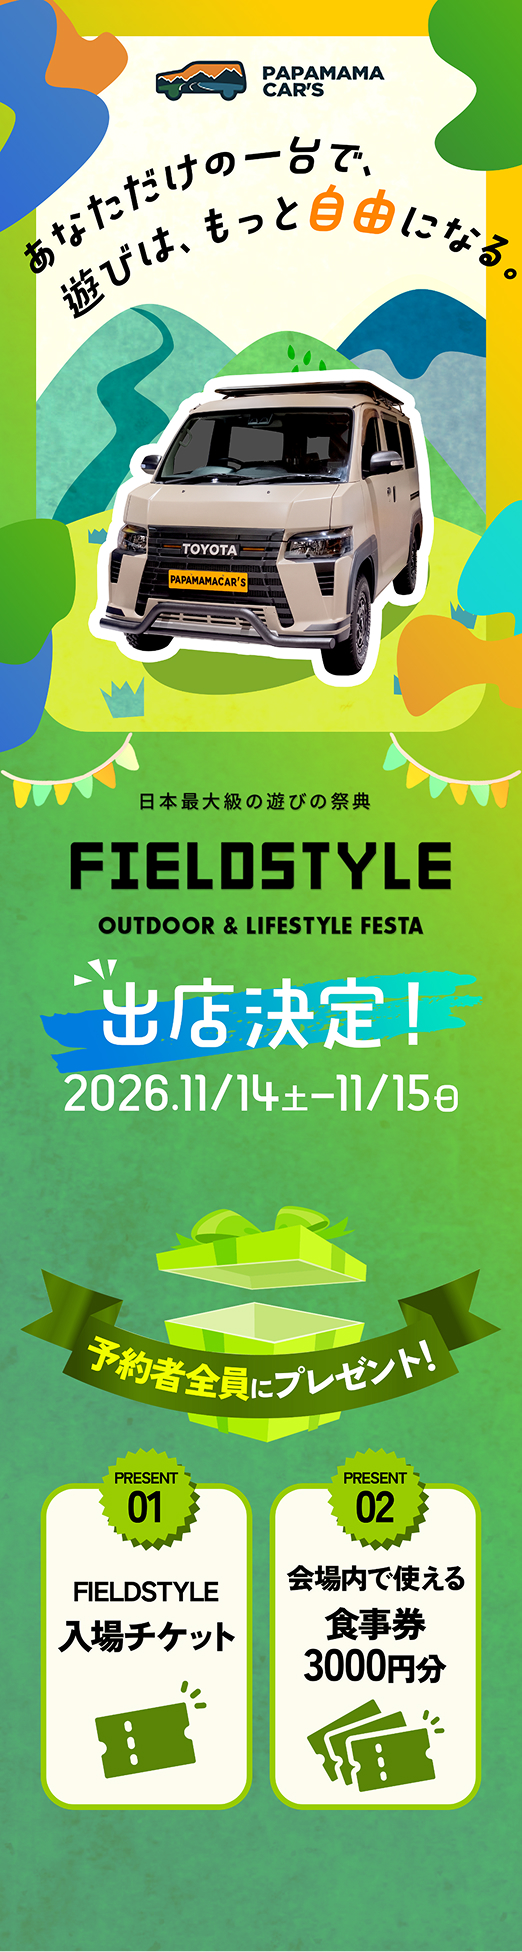
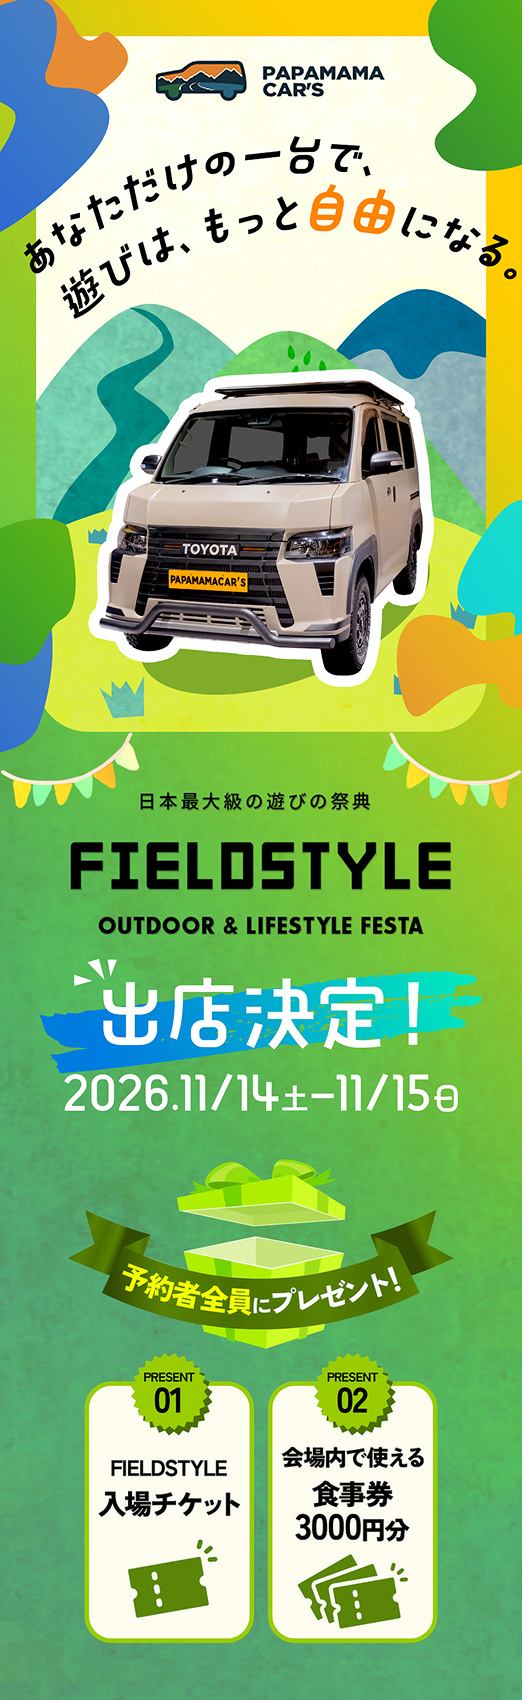
FV1: shrink the present block to 80% and tighten the gaps (on request)
- scripts/edit_fv1_present.py: scales the 予約者全員にプレゼント block, centres it,
  cuts gaps (86->40px above, 125->44px below) and rebuilds the background from
  the original's own gradient + paper texture; rows above are kept
- lp1-fv-1.jpg 522x1700 and lp1-fv-1@2x.jpg 1044x3400 (edit applied at k=2 to
  the upscaled original); original kept as reference/lp1-fv-1-original.jpg
- Gradient estimated at 1x for all k (fixes a dark blotch in the @2x version)

Claude-Session: https://claude.ai/code/session_01WfhDhWY3o6LjFLpT4BUXuJ

diff --git a/scripts/edit_fv1_present.py b/scripts/edit_fv1_present.py
@@ -1,0 +1,121 @@
+"""Shrink FV1's 予約者全員にプレゼント block and tighten the gaps around it.
+
+Usage: python3 -I scripts/edit_fv1_present.py <in> <out> [--k 1|2]
+
+<in> is FIELDSTYLE_FV_LP1-1-1.jpg (522x1952) for --k 1, or its @2x upscale
+(1044x3904) for --k 2. Rows above the block (logo, copy, car, FIELDSTYLE,
+date) are kept untouched. The block (gift box, ribbon, PRESENT cards) is scaled
+by SCALE and centred. The area around it is rebuilt from the original's own
+background: a low-frequency gradient estimated around the block, plus the
+paper texture taken from the empty rows above/below the block.
+"""
+import argparse
+
+import numpy as np
+from PIL import Image, ImageFilter
+from scipy import ndimage
+
+# 1x geometry (rows in the 522x1952 original)
+KEEP_Y = 1118  # last row of the date line; everything above is kept as-is
+BLOCK = (1198, 1830)  # block rows incl. a small margin (content 1204–1826)
+CLEAN = [(1124, 1194), (1834, 1946)]  # empty textured rows used as texture source
+SCALE = 0.8
+GAP_TOP, GAP_BOTTOM = 40, 44  # new gaps: date → block, block → FV bottom
+
+
+def main():
+    ap = argparse.ArgumentParser()
+    ap.add_argument("src")
+    ap.add_argument("dst")
+    ap.add_argument("--k", type=int, default=1)
+    a = ap.parse_args()
+    k = a.k
+    im = Image.open(a.src).convert("RGB")
+    W, H = im.size
+    assert (W, H) == (522 * k, 1952 * k), im.size
+    f = np.array(im).astype(np.float32)
+
+    y0 = KEEP_Y * k
+    L = f[y0:]  # lower area
+    Lh = L.shape[0]
+
+    # --- block mask (filled shapes, dilated, feathered) --------------------------
+    blur = np.array(Image.fromarray(L.astype(np.uint8)).filter(ImageFilter.GaussianBlur(25 * k))).astype(np.float32)
+    dev = np.abs(L - blur).max(2)
+    content = dev > 25
+    content[: (BLOCK[0] - KEEP_Y) * k] = False
+    content[(BLOCK[1] - KEEP_Y) * k:] = False
+    content = ndimage.binary_dilation(content, iterations=6 * k)
+    content = ndimage.binary_fill_holes(content)
+    content = ndimage.binary_dilation(content, iterations=4 * k)
+
+    # --- low-frequency background (normalised convolution around the block) ------
+    valid = ~ndimage.binary_dilation(content, iterations=8 * k)
+    valid[-2 * k:] = False  # skip the 1px light line at the very bottom of the source
+    # Estimated at 1x resolution for every k (then upscaled), so the @2x result matches
+    # 1x; at full @2x resolution the Gaussian weights deep inside the masked block fall
+    # below float precision and produced dark blotches.
+    W1, H1 = W // k, Lh // k
+    L1 = np.array(Image.fromarray(np.clip(L, 0, 255).astype(np.uint8)).resize((W1, H1), Image.BOX)).astype(np.float64)
+    v1 = np.array(Image.fromarray(valid.astype(np.uint8) * 255).resize((W1, H1), Image.BOX)) > 250
+    num = ndimage.gaussian_filter(L1 * v1[..., None], (40, 40, 0))
+    den = ndimage.gaussian_filter(v1.astype(np.float64), 40)[..., None]
+    lf1 = num / np.maximum(den, 1e-12)
+    lf = np.array(Image.fromarray(np.clip(lf1, 0, 255).astype(np.uint8)).resize((W, Lh), Image.BICUBIC)).astype(np.float32)
+    hp = L - lf  # texture (only meaningful where valid)
+
+    # --- new lower area --------------------------------------------------------------
+    bh = (BLOCK[1] - BLOCK[0]) * k
+    sbh = round(bh * SCALE)
+    sbw = round(W * SCALE)
+    # Heights are computed in 1x units and multiplied by k, so @2x is exactly twice 1x.
+    top_off1 = (1204 - BLOCK[0]) * SCALE  # margin inside the scaled box
+    bot_off1 = (BLOCK[1] - 1826) * SCALE
+    new_h = k * (GAP_TOP + round((BLOCK[1] - BLOCK[0]) * SCALE - top_off1 - bot_off1) + GAP_BOTTOM)
+    box_y = round(k * (GAP_TOP - top_off1))
+
+    # gradient: resample the original's low-frequency field to the new height
+    lf_new = np.array(
+        Image.fromarray(np.clip(lf, 0, 255).astype(np.uint8)).resize((W, new_h), Image.BICUBIC)
+    ).astype(np.float32)
+
+    # texture: stack clean strips (with mirrored variants) and cross-fade the joins
+    strips = []
+    for r0, r1 in CLEAN:
+        s = hp[(r0 - KEEP_Y) * k:(r1 - KEEP_Y) * k]
+        strips += [s, s[::-1], s[:, ::-1], s[::-1, ::-1]]
+    order = [strips[i % len(strips)] for i in (0, 4, 1, 5, 2, 6, 3, 7, 0, 4, 1, 5)]
+    xf = 8 * k
+    tex = order[0].copy()
+    for s in order[1:]:
+        if tex.shape[0] >= new_h:
+            break
+        w = np.linspace(0, 1, xf, dtype=np.float32)[:, None, None]
+        tex[-xf:] = tex[-xf:] * (1 - w) + s[:xf] * w
+        tex = np.concatenate([tex, s[xf:]])
+    tex = tex[:new_h]
+    bg = lf_new + tex
+
+    # keep the original first rows below the date and cross-fade into the rebuilt bg
+    keep = 12 * k
+    fade = 20 * k
+    bg[:keep] = L[:keep]
+    w = np.linspace(0, 1, fade, dtype=np.float32)[:, None, None]
+    bg[keep:keep + fade] = L[keep:keep + fade] * (1 - w) + bg[keep:keep + fade] * w
+
+    # --- scaled block composited with a feathered mask ---------------------------------
+    by0 = (BLOCK[0] - KEEP_Y) * k
+    box = Image.fromarray(np.clip(L[by0:by0 + bh], 0, 255).astype(np.uint8)).resize((sbw, sbh), Image.LANCZOS)
+    m = Image.fromarray((content[by0:by0 + bh] * 255).astype(np.uint8)).resize((sbw, sbh), Image.BILINEAR)
+    m = np.array(m.filter(ImageFilter.GaussianBlur(3 * k))).astype(np.float32)[..., None] / 255
+    bx = (W - sbw) // 2
+    region = bg[box_y:box_y + sbh, bx:bx + sbw]
+    bg[box_y:box_y + sbh, bx:bx + sbw] = np.array(box).astype(np.float32) * m + region * (1 - m)
+
+    out = np.concatenate([f[:y0], bg]).clip(0, 255).astype(np.uint8)
+    Image.fromarray(out).save(a.dst, quality=95, subsampling=0, optimize=True)
+    print("saved", a.dst, out.shape[1], "x", out.shape[0])
+
+
+if __name__ == "__main__":
+    main()

diff --git a/scripts/prepare_assets.py b/scripts/prepare_assets.py
@@ -38,7 +38,9 @@ STAGE_Y0, STAGE_Y1 = 9180, 9840  # rows replaced by the live slider layers
 DOT_Y = 9793.8
 DOT_XS = [193.16, 224.5, 255.61, 286.84, 318.0]
 
-shutil.copyfile(SRC / "FIELDSTYLE_FV_LP1-1-1.jpg", DESIGN / "lp1-fv-1.jpg")
+shutil.copyfile(SRC / "FIELDSTYLE_FV_LP1-1-1.jpg", ROOT / "reference" / "lp1-fv-1-original.jpg")
+# FV1 is edited (smaller present block, tighter gaps): run scripts/edit_fv1_present.py
+#   reference/lp1-fv-1-original.jpg -> public/design/lp1-fv-1.jpg
 shutil.copyfile(SRC / "FIELDSTYLE_FV_LP1-2.jpg", DESIGN / "lp1-fv-2.jpg")
 shutil.copyfile(SRC / "FIELDSTYLE_LP1_2026.jpg", ROOT / "reference" / "lp1-full.jpg")
 

diff --git a/scripts/build_hidpi.py b/scripts/build_hidpi.py
@@ -32,8 +32,8 @@ def load(name, size):
     return im
 
 
-# FV
-for n, size in (("1", (522, 1952)), ("2", (573, 1298))):
+# FV (FV1's @2x is made by scripts/edit_fv1_present.py --k 2 from the upscaled original)
+for n, size in (("2", (573, 1298)),):
     load(f"lp1-fv-{n}@2x.png", (size[0] * 2, size[1] * 2)).convert("RGB").save(D / f"lp1-fv-{n}@2x.jpg", **JPEG)
 
 # Body tiles (1x lossless crops of lp1-body.png + @2x JPEG)

diff --git a/README.md b/README.md
@@ -32,7 +32,7 @@ Every asset comes from the client's Google Drive folder `FIELDSTYLE` (`LP1/` and
 
 | File | Source | Processing |
 | --- | --- | --- |
-| `lp1-fv-1.jpg` (522×1952) | `LP1/FIELDSTYLE_FV_LP1-1-1.jpg` (2026-10-14; adds the 予約者全員にプレゼント block) | byte-for-byte copy |
+| `lp1-fv-1.jpg` (522×1700) | `LP1/FIELDSTYLE_FV_LP1-1-1.jpg` (2026-10-14; original kept as `reference/lp1-fv-1-original.jpg`) | **edited on request** by `scripts/edit_fv1_present.py`: the 予約者全員にプレゼント block is scaled to 80% and centred; the gaps go from 86/125px to 40/44px. The background around it is rebuilt from the original's own gradient and paper texture. Rows above the block are unchanged. |
 | `lp1-fv-2.jpg` (573×1298) | `LP1/FIELDSTYLE_FV_LP1-2.jpg` (renamed in Drive; formerly `7 1FIELDSTYLE_FV_LP2-2.jpg`) | byte-for-byte copy |
 | `lp1-body.png` (509×13136) | `LP1/FIELDSTYLE_LP1_2026.jpg` rows y ≥ 1118 | lossless crop (decoded pixels → PNG) |
 | `staff-all.png` (3830×816) | `FIELDSTYLE_LP1-LP2共通` | byte-for-byte copy |
@@ -55,7 +55,7 @@ The supplied designs are only 509–590px wide, so phones (DPR 2–3) had to str
 
 | | 1x (DPR 1 desktops) | @2x (phones, retina) |
 | --- | --- | --- |
-| FV | `lp1-fv-{1,2}.jpg` (original) | `lp1-fv-{1,2}@2x.jpg` 1044/1146px |
+| FV | `lp1-fv-{1,2}.jpg` (original) | `lp1-fv-{1,2}@2x.jpg` 1044/1146px (FV1 @2x = `edit_fv1_present.py --k 2` on the upscaled original) |
 | Body | `body/lp1-body-01..13.png` (lossless 1024-row tiles of `lp1-body.png`) | `body/lp1-body-01..13@2x.jpg` 1018×2048 |
 | Staff cards | `staff/staff-0N.png` (original) | `staff/staff-0N@2x.webp` 1172×1632 |
 | STAFF stage layers | `staff-stage-{bg,overlay}.png` | `staff-stage-{bg,overlay}@2x.png` |

diff --git a/qa/QA_REPORT.md b/qa/QA_REPORT.md
@@ -1,5 +1,14 @@
 # LP1 QA report
 
+> **2026-10-14 FV1 present block resized (on request).** `lp1-fv-1.jpg` is now 522×1700, made by `scripts/edit_fv1_present.py` from `reference/lp1-fv-1-original.jpg`.
+> - **Block:** gift / ribbon / PRESENT cards scaled to 80% and centred.
+> - **Gaps:** date→block 86→40px, block→FV bottom 125→44px.
+> - **Background:** rebuilt from the original's own gradient and paper texture. Rows above the block are unchanged apart from JPEG re-encoding (mean 1.05/255).
+> - **@2x:** the same edit applied to the upscaled original (1044×3400, exactly 2×).
+> - **Bug fixed during review:** a dark blotch in the @2x background next to card 01. The gradient estimate is now computed at 1x for both versions.
+> - **QA:** all functional checks pass; DPR 3 loads 34/34 @2x; at 509px the body is still pixel-identical and identical between FV1 and FV2.
+> - **Body untouched:** the yellow band above the body's top buttons (100px, part of the original body design) is unchanged.
+
 > **2026-10-14 FV1 swap.** `lp1-fv-1.jpg` ← `FIELDSTYLE_FV_LP1-1-1.jpg` (522×1952, byte-for-byte), which adds the 予約者全員にプレゼント block. FV2 is unchanged. All functional checks pass. FV1 vs source at 509px: mean 1.93 (resampling only). Body at 509px is still pixel-identical, and FV1/FV2 bodies are identical. FV1 is served 1x-only until its @2x upscale is added; the other 33 images are @2x on DPR 3. The source again has a 1px light bottom row, kept as-is.
 
 > **High-DPI (@2x) enabled.** Every image now has a Real-ESRGAN x2plus @2x version chosen by `srcset`.
